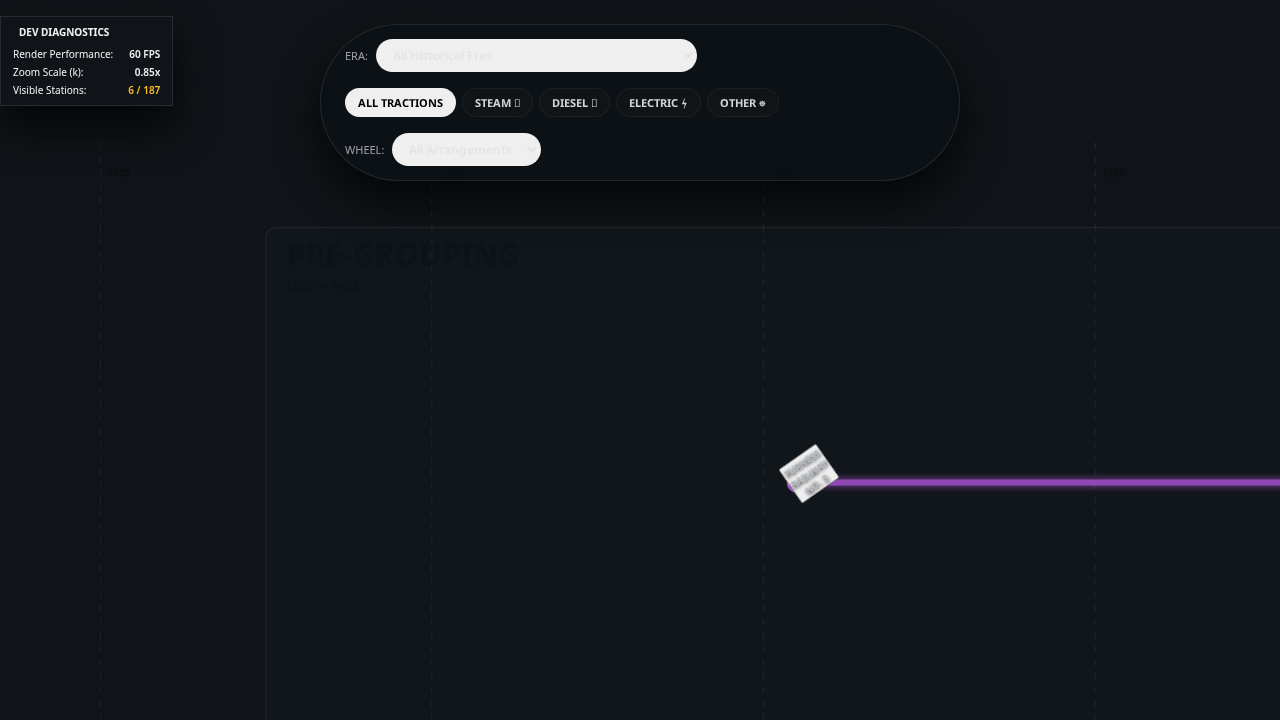
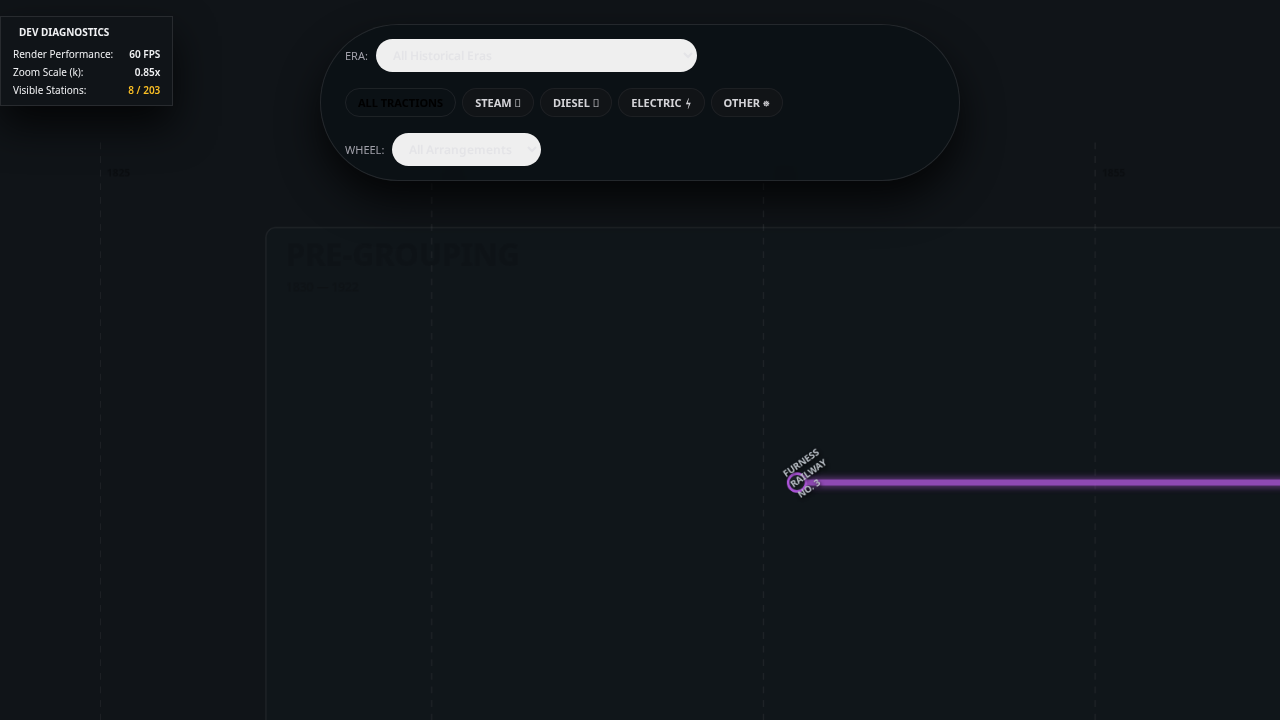
Add whitespace-nowrap CSS utility class

diff --git a/src/app.css b/src/app.css
@@ -653,3 +653,7 @@ h4,
 .translate-x-0 {
 	transform: translateX(0);
 }
+
+.whitespace-nowrap {
+	white-space: nowrap;
+}